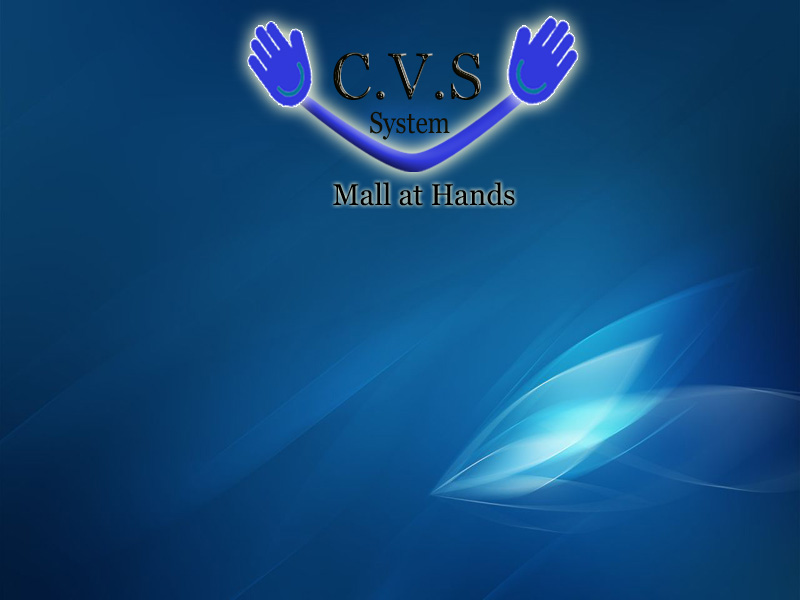
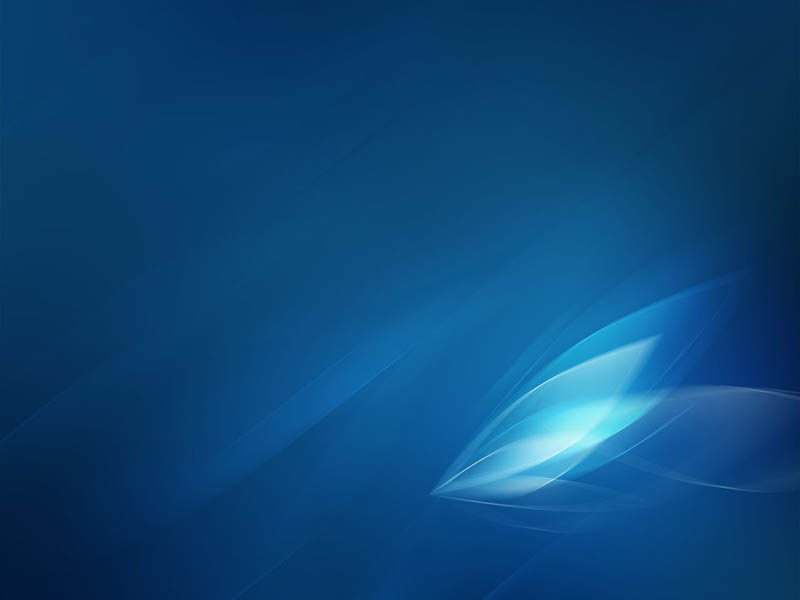
Actualizacion de icono,

Changed region(s): [[0.2812, 0.0, 0.75, 0.36]]

diff --git a/src/cvs/LoginFrame.java b/src/cvs/LoginFrame.java
@@ -11,6 +11,7 @@ import java.awt.event.MouseEvent;
 import java.awt.event.MouseListener;
 import java.util.Map;
 import javax.swing.BorderFactory;
+import javax.swing.ImageIcon;
 import javax.swing.JButton;
 import javax.swing.JFrame;
 import javax.swing.JLabel;
@@ -21,17 +22,17 @@ import javax.swing.JTextField;
 import javax.swing.border.Border;
 
 /**
- * Formulario Login Frame, autentica a usuarios, administradores y propietarios de locales. 
+ * Formulario Login Frame, autentica a usuarios, administradores y propietarios
+ * de locales.
+ *
  * @author Camilo Munera
  * @version 05/04/2015
  */
-
 public class LoginFrame extends JFrame {
 
     private JLabel labelBienvenido;
     private JLabel labelCorreo;
     private JLabel labelContrasena;
-    private JLabel labelRegistrar;
     private JTextField textoCorreo;
     private JPasswordField textoContrasena;
     private JButton botonIngresar;
@@ -43,6 +44,7 @@ public class LoginFrame extends JFrame {
         setSize(800, 600);
         setLocationRelativeTo(null);
         setVisible(true);
+        setIconImage(new ImageIcon(getClass().getResource("/cvs/icon.png")).getImage());
 
         JPanel PLogin = new PanelImagen2();
         Border padding = BorderFactory.createEmptyBorder(60, 280, 60, 280);
@@ -74,41 +76,6 @@ public class LoginFrame extends JFrame {
         textoContrasena = new JPasswordField();
         add(textoContrasena);
 
-//        labelRegistrar = new JLabel("<HTML><U>Registrarse<U></HTML>");
-//        labelRegistrar.setHorizontalAlignment(JTextField.CENTER);
-//        labelRegistrar.setForeground(Color.BLUE);
-//        labelRegistrar.setCursor(Cursor.getPredefinedCursor(Cursor.HAND_CURSOR));//para poner mano
-//        labelRegistrar.addMouseListener(new MouseListener() {
-//
-//            @Override
-//            public void mouseClicked(MouseEvent e) {
-//                new CrearUsuario(false);
-//                dispose();
-//            }
-//
-//            @Override
-//            public void mousePressed(MouseEvent e) {
-//
-//            }
-//
-//            @Override
-//            public void mouseReleased(MouseEvent e) {
-//
-//            }
-//
-//            @Override
-//            public void mouseEntered(MouseEvent e) {
-//
-//            }
-//
-//            @Override
-//            public void mouseExited(MouseEvent e) {
-//
-//            }
-//        });
-//        add(labelRegistrar);
-        
-        
         botonIngresar = new JButton("Ingresar");
         add(botonIngresar);
         botonIngresar.addActionListener(new ActionListener() {
@@ -173,13 +140,12 @@ public class LoginFrame extends JFrame {
         });
 
     }
-    
-    /**
-     * metodo ingresar verifica si la informacion ingresada es de un administrador
-     * propietario de local o usuario y lo redirecciona a la ventana correspondiente
-     * segun su rol
-     */
 
+    /**
+     * metodo ingresar verifica si la informacion ingresada es de un
+     * administrador propietario de local o usuario y lo redirecciona a la
+     * ventana correspondiente segun su rol
+     */
     private void ingresar() {
 
         String correo = textoCorreo.getText();
@@ -191,7 +157,7 @@ public class LoginFrame extends JFrame {
         } else if (Usuario.loguearUsuario(correo, pass)) {
             new PrincipalWindow(true);
             dispose();
-        } else if (Propietario.loguearpropietario(correo, pass))  {
+        } else if (Propietario.loguearpropietario(correo, pass)) {
             new Gestionproductos();
             dispose();
         } else {

diff --git a/src/cvs/PrincipalWindow.java b/src/cvs/PrincipalWindow.java
@@ -5,6 +5,7 @@ import java.awt.Font;
 import java.awt.event.MouseEvent;
 import java.awt.event.MouseListener;
 import java.util.Map;
+import javax.swing.ImageIcon;
 import javax.swing.JButton;
 import javax.swing.JFrame;
 import javax.swing.JLabel;
@@ -34,12 +35,13 @@ public class PrincipalWindow extends JFrame {
     JLabel labelsobrelocales;
     JLabel labelcerrarsesion;
     JLabel labelusuario;
+    JLabel logo;
 
     public PrincipalWindow(boolean editando) {
 
         setTitle("Acceso al sistema");
         setDefaultCloseOperation(EXIT_ON_CLOSE);
-
+        setIconImage(new ImageIcon(getClass().getResource("/cvs/icon.png")).getImage());
         setSize(800, 600);
         setLocationRelativeTo(null);
         setVisible(true);
@@ -56,6 +58,10 @@ public class PrincipalWindow extends JFrame {
         p.setBounds(0, 0, getWidth(), getHeight());
         add(p);
         
+//        logo = new JLabel();
+//        logo.setIcon(new ImageIcon(getClass().getResource("/cvs/logo.gif")));
+//        logo.setBounds(189, -10, 400, 300);
+//        p.add(logo);
         
 
         botonregistrar = new JButton("Registrarse");
@@ -412,7 +418,7 @@ public class PrincipalWindow extends JFrame {
             
         }
         
-       
+     
         
     }
 
@@ -422,8 +428,8 @@ public class PrincipalWindow extends JFrame {
 
         
         // se agregan dos productos para que se carguen al abrir la ventana productos por defecto        
-        Producto.Productos.add(new Producto("C:\\aimages\\zapatodama.jpg", "Zapatos Dama", "Color Rosa", "Ropa", "50.000"));
-        Producto.Productos.add(new Producto("C:\\aimages\\camisa.jpg", "Camisa Hombre", "Color Blanco Azul, Tallas M,L", "Ropa", "25.000"));
+        Producto.Productos.add(new Producto("C:\\aimages\\zapatodama.gif", "Zapatos Dama", "Color Rosa", "Ropa", "50.000"));
+        Producto.Productos.add(new Producto("C:\\aimages\\camisa.gif", "Camisa Hombre", "Color Blanco Azul, Tallas M,L", "Ropa", "25.000"));
         
         
         PrincipalWindow f = new PrincipalWindow(false);

diff --git a/src/cvs/CrearUsuario.java b/src/cvs/CrearUsuario.java
@@ -7,6 +7,7 @@ import java.awt.event.ActionListener;
 import java.awt.event.MouseEvent;
 import java.awt.event.MouseListener;
 import javax.swing.BorderFactory;
+import javax.swing.ImageIcon;
 import javax.swing.JButton;
 import javax.swing.JComboBox;
 import javax.swing.JPanel;
@@ -51,8 +52,8 @@ public class CrearUsuario extends JFrame {
     private JButton botonreestablecer;
     private JButton botonatras;
     private JButton botoneliminar;
-    private JComboBox combo1;
-    private boolean editando;
+
+    boolean editando;
 
     /**
      * Constructor Crear Usuario
@@ -60,6 +61,7 @@ public class CrearUsuario extends JFrame {
      * @param editando si editando es true es porque el usuario ya existe y los
      * datos seran modificados, si es false se crea un nuevo usuario.
      */
+    
     public CrearUsuario(boolean editando) {
         if (editando == true) {
             setTitle("Modificar mis Datos");
@@ -70,6 +72,7 @@ public class CrearUsuario extends JFrame {
 
         setVisible(true);
         setDefaultCloseOperation(EXIT_ON_CLOSE); //Que hacer cuando se presiona el boton cerrar
+        setIconImage(new ImageIcon(getClass().getResource("/cvs/icon.png")).getImage());
         this.editando = editando;
 
         setSize(800, 600);
@@ -151,6 +154,7 @@ public class CrearUsuario extends JFrame {
         add(botoncrearusuario);
         botoncrearusuario.addActionListener(new ActionListener() {
 
+            @Override
             public void actionPerformed(ActionEvent e) {
 
                 String tipoDocumento = (String) comboTipodocumento.getSelectedItem();

diff --git a/src/cvs/GestionarLocales.java b/src/cvs/GestionarLocales.java
@@ -31,7 +31,6 @@ import javax.swing.event.ListSelectionListener;
 public class GestionarLocales extends JFrame {
 
     private JPanel panelIzquierdo, panelDerecho;
-    private JLabel labellistadodelocales;
     private JButton botoneliminarlocal;
     private JButton botonatras;
     private JButton botonlistarlocales;
@@ -62,9 +61,8 @@ public class GestionarLocales extends JFrame {
         setSize(800, 600);
         setLocationRelativeTo(null);
         setVisible(true);
-        ImageIcon icono = new ImageIcon("../Ressources/icon.png");
-        this.setIconImage(icono.getImage());
-
+        setIconImage(new ImageIcon(getClass().getResource("/cvs/icon.png")).getImage());
+        
         Container contentpane = getContentPane();
         contentpane.setLayout(new GridLayout(1, 2));
 
@@ -115,6 +113,7 @@ public class GestionarLocales extends JFrame {
             @Override
             public void actionPerformed(ActionEvent ev) {
                 new Menuppaladministracion();
+                dispose();
 
             }
         });

diff --git a/src/cvs/Gestionproductos.java b/src/cvs/Gestionproductos.java
@@ -8,8 +8,8 @@ import java.awt.event.ActionListener;
 import java.awt.event.MouseEvent;
 import java.awt.event.MouseListener;
 import java.io.File;
-import java.util.ArrayList;
 import java.util.Map;
+import javax.swing.ImageIcon;
 import javax.swing.JButton;
 import javax.swing.JComboBox;
 import javax.swing.JFileChooser;
@@ -59,6 +59,7 @@ public final class Gestionproductos extends JFrame {
         setSize(800, 600);
         setLocationRelativeTo(null);
         setVisible(true);
+        setIconImage(new ImageIcon(getClass().getResource("/cvs/icon.png")).getImage());
 
         Container contentpane = getContentPane();
 

diff --git a/src/cvs/GestionarPropietarios.java b/src/cvs/GestionarPropietarios.java
@@ -49,9 +49,8 @@ public class GestionarPropietarios extends JFrame {
         setDefaultCloseOperation(EXIT_ON_CLOSE);
         setSize(800, 600);
         setLocationRelativeTo(null);
-        setVisible(true);
-        ImageIcon icono = new ImageIcon("../Ressources/icon.png");
-        this.setIconImage(icono.getImage());
+        setVisible(true);        
+        setIconImage(new ImageIcon(getClass().getResource("/cvs/icon.png")).getImage());
 
         Container contentpane = getContentPane();
         contentpane.setLayout(new GridLayout(2, 1));
